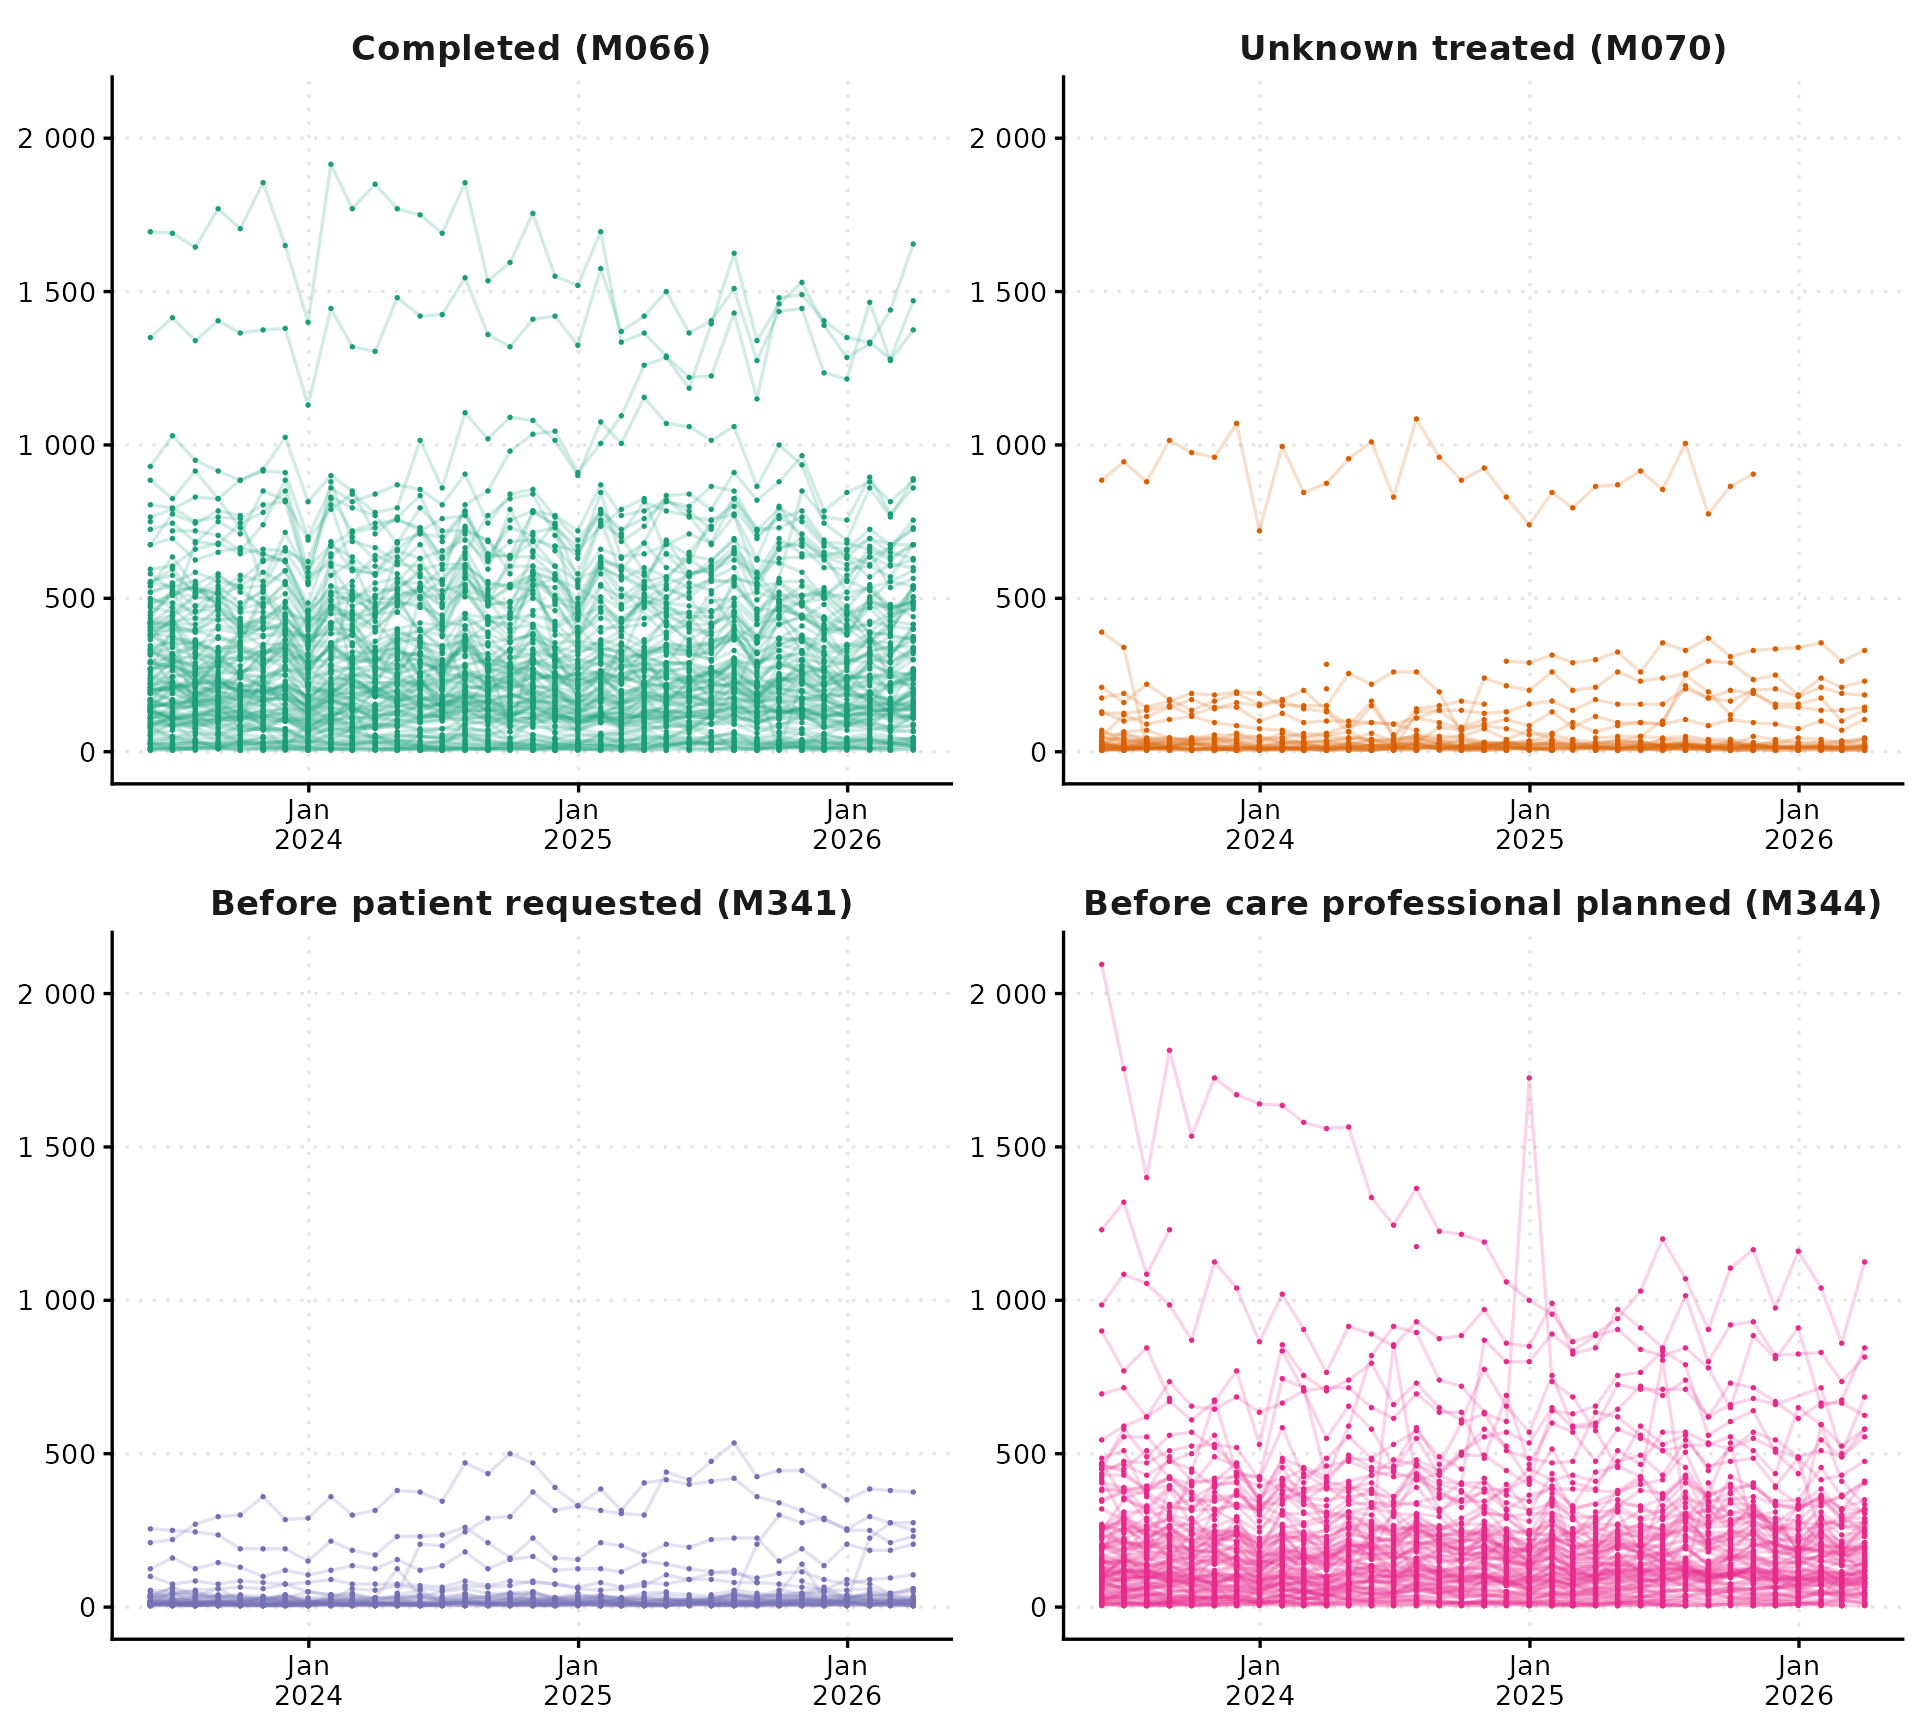
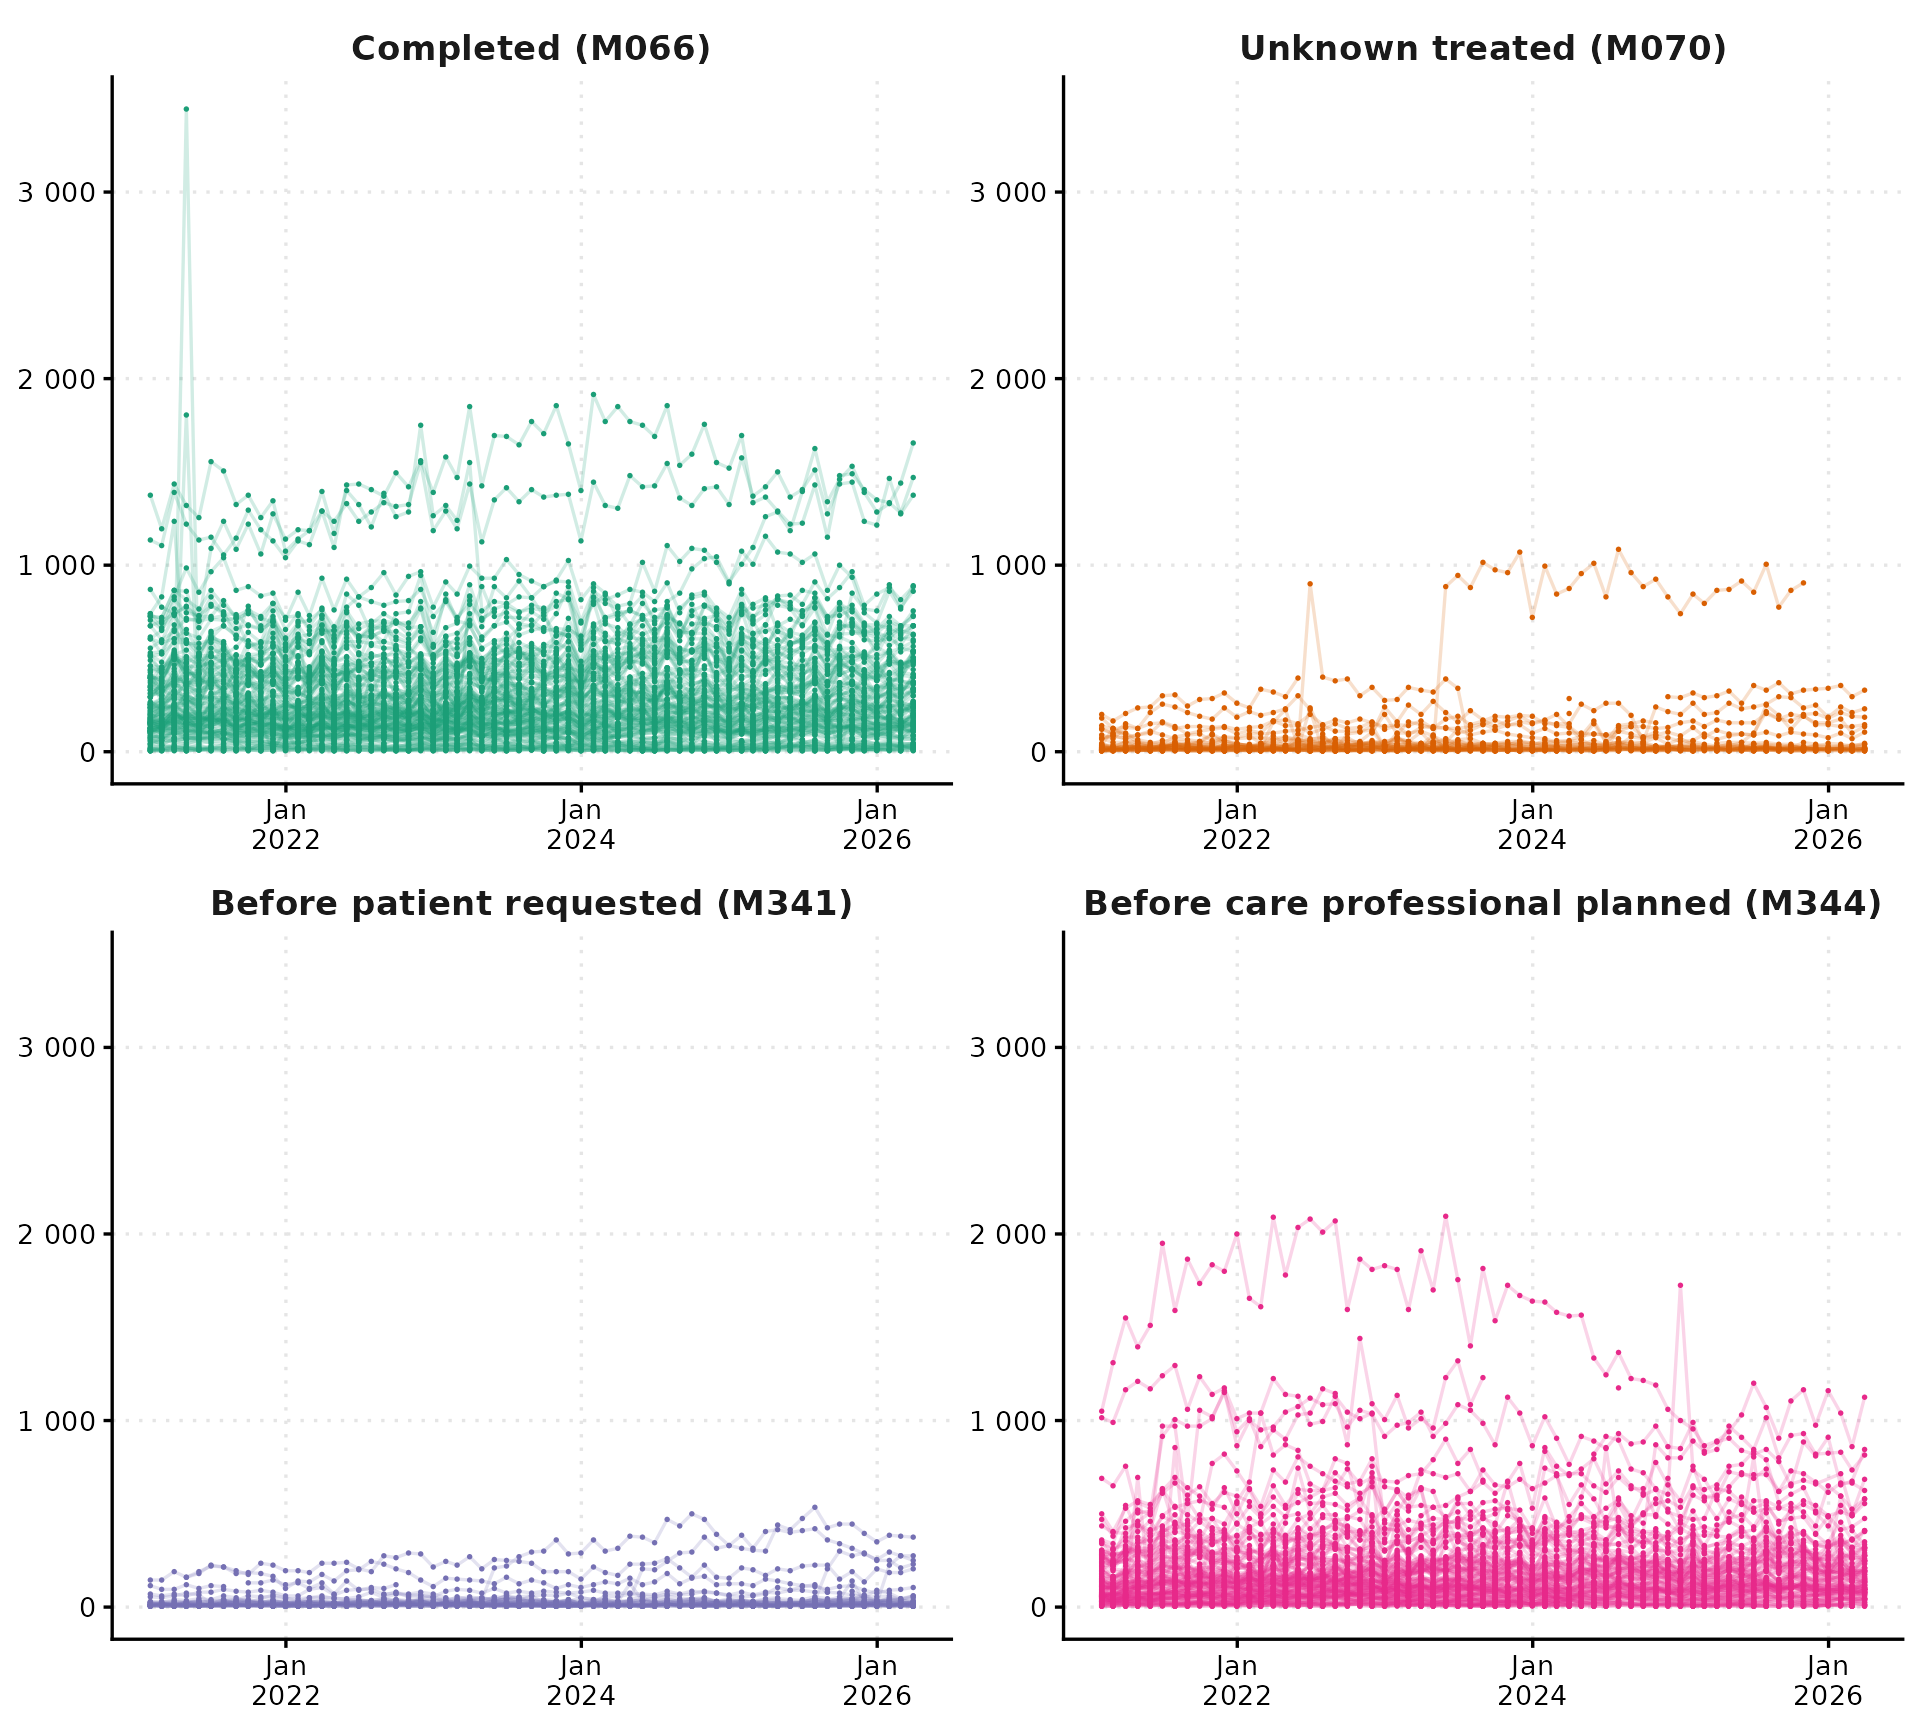
Deploying to gh-pages from @ bennettoxford/nhstt@2e8d4afcc20483566e873e78c872896292044fd9 🚀

diff --git a/reference/extract_source_schemas.html b/reference/extract_source_schemas.html
@@ -1,0 +1,133 @@
+<!DOCTYPE html>
+<!-- Generated by pkgdown: do not edit by hand --><html lang="en"><head><meta http-equiv="Content-Type" content="text/html; charset=UTF-8"><meta charset="utf-8"><meta http-equiv="X-UA-Compatible" content="IE=edge"><meta name="viewport" content="width=device-width, initial-scale=1, shrink-to-fit=no"><title>Extract schemas from direct source files — extract_source_schemas • nhstt</title><script src="../deps/jquery-3.6.0/jquery-3.6.0.min.js"></script><meta name="viewport" content="width=device-width, initial-scale=1, shrink-to-fit=no"><link href="../deps/bootstrap-5.3.8/bootstrap.min.css" rel="stylesheet"><script src="../deps/bootstrap-5.3.8/bootstrap.bundle.min.js"></script><link href="../deps/font-awesome-6.5.2/css/all.min.css" rel="stylesheet"><link href="../deps/font-awesome-6.5.2/css/v4-shims.min.css" rel="stylesheet"><script src="../deps/headroom-0.11.0/headroom.min.js"></script><script src="../deps/headroom-0.11.0/jQuery.headroom.min.js"></script><script src="../deps/bootstrap-toc-1.0.1/bootstrap-toc.min.js"></script><script src="../deps/clipboard.js-2.0.11/clipboard.min.js"></script><script src="../deps/search-1.0.0/autocomplete.jquery.min.js"></script><script src="../deps/search-1.0.0/fuse.min.js"></script><script src="../deps/search-1.0.0/mark.min.js"></script><!-- pkgdown --><script src="../pkgdown.js"></script><link href="../extra.css" rel="stylesheet"><meta property="og:title" content="Extract schemas from direct source files — extract_source_schemas"><meta name="description" content="Extracts column names from a dataset's raw source files across specified
+periods. Companion to extract_archive_schemas() for datasets whose
+sources are standalone files (e.g. the monthly CSVs) rather than archives.
+Returns a data frame useful for tracking schema changes over time and
+spotting column name variations across periods."><meta property="og:description" content="Extracts column names from a dataset's raw source files across specified
+periods. Companion to extract_archive_schemas() for datasets whose
+sources are standalone files (e.g. the monthly CSVs) rather than archives.
+Returns a data frame useful for tracking schema changes over time and
+spotting column name variations across periods."><!-- Privacy-friendly analytics by Plausible --><script async src="https://plausible.io/js/pa-eGtUj6yMT9xZ_NpjGZ0PD.js"></script><script>
+  window.plausible=window.plausible||function(){(plausible.q=plausible.q||[]).push(arguments)},plausible.init=plausible.init||function(i){plausible.o=i||{}};
+  plausible.init()
+</script></head><body>
+    <a href="#main" class="visually-hidden-focusable">Skip to contents</a>
+
+
+    <nav class="navbar navbar-expand-lg fixed-top bg-light" data-bs-theme="default" aria-label="Site navigation"><div class="container">
+
+    <a class="navbar-brand me-2" href="../index.html">nhstt</a>
+
+    <small class="nav-text text-muted me-auto" data-bs-toggle="tooltip" data-bs-placement="bottom" title="Released version">0.6.0</small>
+
+
+    <button class="navbar-toggler" type="button" data-bs-toggle="collapse" data-bs-target="#navbar" aria-controls="navbar" aria-expanded="false" aria-label="Toggle navigation">
+      <span class="navbar-toggler-icon"></span>
+    </button>
+
+    <div id="navbar" class="collapse navbar-collapse ms-3">
+      <ul class="navbar-nav me-auto"><li class="active nav-item"><a class="nav-link" href="../reference/index.html">Function reference</a></li>
+<li class="nav-item dropdown">
+  <button class="nav-link dropdown-toggle" type="button" id="dropdown-how-to-guides" data-bs-toggle="dropdown" aria-expanded="false" aria-haspopup="true">How-to guides</button>
+  <ul class="dropdown-menu" aria-labelledby="dropdown-how-to-guides"><li><h6 class="dropdown-header" data-toc-skip>Annual data</h6></li>
+    <li><a class="dropdown-item" href="../articles/how-to-key-measures-annual.html">Key measures</a></li>
+    <li><a class="dropdown-item" href="../articles/how-to-proms-annual.html">PROMs</a></li>
+    <li><hr class="dropdown-divider"></li>
+    <li><h6 class="dropdown-header" data-toc-skip>Monthly data</h6></li>
+    <li><a class="dropdown-item" href="../articles/how-to-activity-performance-monthly.html">Activity and performance</a></li>
+  </ul></li>
+<li class="nav-item dropdown">
+  <button class="nav-link dropdown-toggle" type="button" id="dropdown-metadata" data-bs-toggle="dropdown" aria-expanded="false" aria-haspopup="true">Metadata</button>
+  <ul class="dropdown-menu" aria-labelledby="dropdown-metadata"><li><h6 class="dropdown-header" data-toc-skip>Annual metadata</h6></li>
+    <li><a class="dropdown-item" href="../articles/metadata-annual.html">Key measures</a></li>
+    <li><hr class="dropdown-divider"></li>
+    <li><h6 class="dropdown-header" data-toc-skip>Monthly metadata</h6></li>
+    <li><a class="dropdown-item" href="../articles/metadata-monthly-core.html">Core measures</a></li>
+    <li><a class="dropdown-item" href="../articles/metadata-monthly-ea.html">Employment Advisor (EA) measures</a></li>
+    <li><a class="dropdown-item" href="../articles/metadata-monthly-ltc.html">Long-term Condition (LTC) measures</a></li>
+    <li><hr class="dropdown-divider"></li>
+    <li><h6 class="dropdown-header" data-toc-skip>Organisation metadata</h6></li>
+    <li><a class="dropdown-item" href="../articles/metadata-ods.html">NHS Talking Therapies providers</a></li>
+  </ul></li>
+      </ul><ul class="navbar-nav"><li class="nav-item"><form class="form-inline" role="search">
+ <input class="form-control" type="search" name="search-input" id="search-input" autocomplete="off" aria-label="Search site" placeholder="Search for" data-search-index="../search.json"></form></li>
+<li class="nav-item"><a class="external-link nav-link" href="https://github.com/bennettoxford/nhstt/" aria-label="GitHub"><span class="fa fab fa-github fa-lg"></span></a></li>
+      </ul></div>
+
+
+  </div>
+</nav><div class="container template-reference-topic">
+<div class="row">
+  <main id="main" class="col-md-9"><div class="page-header">
+
+      <h1>Extract schemas from direct source files</h1>
+      <small class="dont-index">Source: <a href="https://github.com/bennettoxford/nhstt/blob/main/R/dev-utils.R" class="external-link"><code>R/dev-utils.R</code></a></small>
+      <div class="d-none name"><code>extract_source_schemas.Rd</code></div>
+    </div>
+
+    <div class="ref-description section level2">
+    <p>Extracts column names from a dataset's raw source files across specified
+periods. Companion to <code><a href="extract_archive_schemas.html">extract_archive_schemas()</a></code> for datasets whose
+sources are standalone files (e.g. the monthly CSVs) rather than archives.
+Returns a data frame useful for tracking schema changes over time and
+spotting column name variations across periods.</p>
+    </div>
+
+    <div class="section level2">
+    <h2 id="ref-usage">Usage<a class="anchor" aria-label="anchor" href="#ref-usage"></a></h2>
+    <div class="sourceCode"><pre class="sourceCode r"><code><span><span class="fu">extract_source_schemas</span><span class="op">(</span><span class="va">dataset</span>, periods <span class="op">=</span> <span class="cn">NULL</span><span class="op">)</span></span></code></pre></div>
+    </div>
+
+    <div class="section level2">
+    <h2 id="arguments">Arguments<a class="anchor" aria-label="anchor" href="#arguments"></a></h2>
+
+
+<dl><dt id="arg-dataset">dataset<a class="anchor" aria-label="anchor" href="#arg-dataset"></a></dt>
+<dd><p>Character, dataset name (e.g., "activity_performance_monthly")</p></dd>
+
+
+<dt id="arg-periods">periods<a class="anchor" aria-label="anchor" href="#arg-periods"></a></dt>
+<dd><p>Character vector, periods to extract schemas for (e.g., c("2025-09", "2025-08")).
+If NULL (default), extracts schemas for all available periods</p></dd>
+
+</dl></div>
+    <div class="section level2">
+    <h2 id="value">Value<a class="anchor" aria-label="anchor" href="#value"></a></h2>
+    <p>Data frame with columns:</p><dl><dt>period</dt>
+<dd><p>Character, reporting period (e.g., "2025-09")</p></dd>
+
+<dt>dataset</dt>
+<dd><p>Character, dataset name</p></dd>
+
+<dt>column</dt>
+<dd><p>Character, column name from the raw data</p></dd>
+
+
+</dl><p>Sorted by period (descending) and column name.</p>
+    </div>
+    <div class="section level2">
+    <h2 id="details">Details<a class="anchor" aria-label="anchor" href="#details"></a></h2>
+    <p>Sources are read via <code><a href="read_raw.html">read_raw()</a></code>, so all configured formats are
+supported and the raw cache is used when available.</p>
+    </div>
+
+  </main><aside class="col-md-3"><nav id="toc" aria-label="Table of contents"><h2>On this page</h2>
+    </nav></aside></div>
+
+
+    <footer><div class="pkgdown-footer-left">
+  <p>Developed by Milan Wiedemann, Lola Ojedele, Viveck Kingsley, Wellcome Trust.</p>
+</div>
+
+<div class="pkgdown-footer-right">
+  <p>Site built with <a href="https://pkgdown.r-lib.org/" class="external-link">pkgdown</a> 2.2.0.</p>
+</div>
+
+    </footer></div>
+
+
+
+
+
+  </body></html>
+

diff --git a/articles/how-to-activity-performance-monthly.html b/articles/how-to-activity-performance-monthly.html
@@ -129,8 +129,8 @@ on for a course of treatment. This post focuses on the last category,
 which covers patients who received two or more sessions, and captures
 the recorded reason their treatment ended.</p>
 <p>The monthly dataset includes counts for each end code, available from
-May 2023 to March 2026. The table below shows the five end codes in this
-category, with total recorded events and the number of services
+January 2021 to March 2026. The table below shows the five end codes in
+this category, with total recorded events and the number of services
 contributing data. The four most commonly recorded end codes are
 presented in the figures below. All <a href="https://bennettoxford.github.io/nhstt/articles/metadata-monthly-core.html">descriptions
 of monthly measures</a> implemented in the <em>nhstt</em> R package can
@@ -585,7 +585,7 @@ be explored online.</p>
 }
 </style>
 <table class="table gt_table" data-quarto-disable-processing="false" data-quarto-bootstrap="false">
-<caption>End codes for referrals seen and taken on for a course of treatment in the monthly NHS TT dataset (May 2023 to March 2026), with total recorded events and number of services contributing data.</caption>
+<caption>End codes for referrals seen and taken on for a course of treatment in the monthly NHS TT dataset (January 2021 to March 2026), with total recorded events and number of services contributing data.</caption>
   <thead><tr class="gt_col_headings">
 <th class="gt_col_heading gt_columns_bottom_border gt_left" rowspan="1" colspan="1" scope="col" id="measure_id">ID</th>
       <th class="gt_col_heading gt_columns_bottom_border gt_left" rowspan="1" colspan="1" scope="col" id="description">Description</th>
@@ -596,32 +596,32 @@ be explored online.</p>
 <tr>
 <td headers="measure_id" class="gt_row gt_left" style="text-align: left; vertical-align: top; font-weight: bold;">M066</td>
 <td headers="description" class="gt_row gt_left" style="text-align: left; vertical-align: top;">Count of referrals with an end date in the reporting period - Improving Access to Psychological Therapies care spell end code is 'Mutually agreed completion of treatment’</td>
-<td headers="total_events" class="gt_row gt_right">1,292,385</td>
-<td headers="n_services" class="gt_row gt_right">160</td>
+<td headers="total_events" class="gt_row gt_right">2,375,625</td>
+<td headers="n_services" class="gt_row gt_right">175</td>
 </tr>
 <tr>
 <td headers="measure_id" class="gt_row gt_left" style="text-align: left; vertical-align: top; font-weight: bold;">M344</td>
 <td headers="description" class="gt_row gt_left" style="text-align: left; vertical-align: top;">Count of referrals that ended in the reporting period with an end code of ‘Termination of treatment earlier than Care Professional planned’</td>
-<td headers="total_events" class="gt_row gt_right">744,270</td>
-<td headers="n_services" class="gt_row gt_right">149</td>
+<td headers="total_events" class="gt_row gt_right">1,414,705</td>
+<td headers="n_services" class="gt_row gt_right">164</td>
 </tr>
 <tr>
 <td headers="measure_id" class="gt_row gt_left" style="text-align: left; vertical-align: top; font-weight: bold;">M070</td>
 <td headers="description" class="gt_row gt_left" style="text-align: left; vertical-align: top;">Count of referrals that ended in the reporting period with an end code of ‘Not Known (Seen and taken on for a course of treatment)’</td>
-<td headers="total_events" class="gt_row gt_right">74,100</td>
-<td headers="n_services" class="gt_row gt_right">61</td>
+<td headers="total_events" class="gt_row gt_right">121,495</td>
+<td headers="n_services" class="gt_row gt_right">77</td>
 </tr>
 <tr>
 <td headers="measure_id" class="gt_row gt_left" style="text-align: left; vertical-align: top; font-weight: bold;">M341</td>
 <td headers="description" class="gt_row gt_left" style="text-align: left; vertical-align: top;">Count of referrals that ended in the reporting period with an end code of ‘Termination of treatment earlier than patient requested’</td>
-<td headers="total_events" class="gt_row gt_right">58,940</td>
-<td headers="n_services" class="gt_row gt_right">72</td>
+<td headers="total_events" class="gt_row gt_right">89,715</td>
+<td headers="n_services" class="gt_row gt_right">84</td>
 </tr>
 <tr>
 <td headers="measure_id" class="gt_row gt_left" style="text-align: left; vertical-align: top; font-weight: bold;">M069</td>
 <td headers="description" class="gt_row gt_left" style="text-align: left; vertical-align: top;">Count of referrals that ended in the reporting period with an end code of ‘Deceased (Seen and taken on for a course of treatment)’</td>
-<td headers="total_events" class="gt_row gt_right">50</td>
-<td headers="n_services" class="gt_row gt_right">7</td>
+<td headers="total_events" class="gt_row gt_right">365</td>
+<td headers="n_services" class="gt_row gt_right">13</td>
 </tr>
 </tbody>
 </table>
@@ -630,7 +630,7 @@ be explored online.</p>
 <div class="section level2">
 <h2 id="monthly-trends-and-variation-in-treatment-end-codes">Monthly trends and variation in treatment end codes<a class="anchor" aria-label="anchor" href="#monthly-trends-and-variation-in-treatment-end-codes"></a>
 </h2>
-<p>Across 35 reporting periods, these monthly counts make it possible to
+<p>Across 63 reporting periods, these monthly counts make it possible to
 look beyond annual totals and examine trends and variation in treatment
 end codes over time. We first show service-level trends across all
 services, then use decile bands to place two example services in

diff --git a/reference/available_nhstt_reports.html b/reference/available_nhstt_reports.html
@@ -90,7 +90,7 @@ their time period coverage and frequency</p>
 <span class="r-out co"><span class="r-pr">#&gt;</span> <span style="color: #BCBCBC;"> 1</span> key_measures… annual    Key … get_key_mea… 2017-18      2024-25             8</span>
 <span class="r-out co"><span class="r-pr">#&gt;</span> <span style="color: #BCBCBC;"> 2</span> proms_annual  annual    Pati… get_proms_a… 2019-20      2024-25             6</span>
 <span class="r-out co"><span class="r-pr">#&gt;</span> <span style="color: #BCBCBC;"> 3</span> therapy_posi… annual    Ther… get_therapy… 2019-20      2024-25             6</span>
-<span class="r-out co"><span class="r-pr">#&gt;</span> <span style="color: #BCBCBC;"> 4</span> activity_per… monthly   Acti… get_activit… 2023-05      2026-03            35</span>
+<span class="r-out co"><span class="r-pr">#&gt;</span> <span style="color: #BCBCBC;"> 4</span> activity_per… monthly   Acti… get_activit… 2021-01      2026-03            63</span>
 <span class="r-out co"><span class="r-pr">#&gt;</span> <span style="color: #BCBCBC;"> 5</span> metadata_mea… annual    Annu… get_metadat… 2024-25      2024-25             1</span>
 <span class="r-out co"><span class="r-pr">#&gt;</span> <span style="color: #BCBCBC;"> 6</span> metadata_mea… annual    Annu… get_metadat… 2024-25      2024-25             1</span>
 <span class="r-out co"><span class="r-pr">#&gt;</span> <span style="color: #BCBCBC;"> 7</span> metadata_var… annual    Annu… get_metadat… 2024-25      2024-25             1</span>

diff --git a/reference/extract_source_schemas.md b/reference/extract_source_schemas.md
@@ -1,0 +1,51 @@
+# Extract schemas from direct source files
+
+Extracts column names from a dataset's raw source files across specified
+periods. Companion to
+[`extract_archive_schemas()`](https://bennettoxford.github.io/nhstt/reference/extract_archive_schemas.md)
+for datasets whose sources are standalone files (e.g. the monthly CSVs)
+rather than archives. Returns a data frame useful for tracking schema
+changes over time and spotting column name variations across periods.
+
+## Usage
+
+``` r
+extract_source_schemas(dataset, periods = NULL)
+```
+
+## Arguments
+
+- dataset:
+
+  Character, dataset name (e.g., "activity_performance_monthly")
+
+- periods:
+
+  Character vector, periods to extract schemas for (e.g., c("2025-09",
+  "2025-08")). If NULL (default), extracts schemas for all available
+  periods
+
+## Value
+
+Data frame with columns:
+
+- period:
+
+  Character, reporting period (e.g., "2025-09")
+
+- dataset:
+
+  Character, dataset name
+
+- column:
+
+  Character, column name from the raw data
+
+Sorted by period (descending) and column name.
+
+## Details
+
+Sources are read via
+[`read_raw()`](https://bennettoxford.github.io/nhstt/reference/read_raw.md),
+so all configured formats are supported and the raw cache is used when
+available.

diff --git a/articles/how-to-activity-performance-monthly.md b/articles/how-to-activity-performance-monthly.md
@@ -43,8 +43,8 @@ which covers patients who received two or more sessions, and captures
 the recorded reason their treatment ended.
 
 The monthly dataset includes counts for each end code, available from
-May 2023 to March 2026. The table below shows the five end codes in this
-category, with total recorded events and the number of services
+January 2021 to March 2026. The table below shows the five end codes in
+this category, with total recorded events and the number of services
 contributing data. The four most commonly recorded end codes are
 presented in the figures below. All [descriptions of monthly
 measures](https://bennettoxford.github.io/nhstt/articles/metadata-monthly-core.html)
@@ -52,20 +52,20 @@ implemented in the *nhstt* R package can be explored online.
 
 | ID | Description | Total events | NHS TT services |
 |:---|:---|----|----|
-| M066 | Count of referrals with an end date in the reporting period - Improving Access to Psychological Therapies care spell end code is 'Mutually agreed completion of treatment’ | 1,292,385 | 160 |
-| M344 | Count of referrals that ended in the reporting period with an end code of ‘Termination of treatment earlier than Care Professional planned’ | 744,270 | 149 |
-| M070 | Count of referrals that ended in the reporting period with an end code of ‘Not Known (Seen and taken on for a course of treatment)’ | 74,100 | 61 |
-| M341 | Count of referrals that ended in the reporting period with an end code of ‘Termination of treatment earlier than patient requested’ | 58,940 | 72 |
-| M069 | Count of referrals that ended in the reporting period with an end code of ‘Deceased (Seen and taken on for a course of treatment)’ | 50 | 7 |
+| M066 | Count of referrals with an end date in the reporting period - Improving Access to Psychological Therapies care spell end code is 'Mutually agreed completion of treatment’ | 2,375,625 | 175 |
+| M344 | Count of referrals that ended in the reporting period with an end code of ‘Termination of treatment earlier than Care Professional planned’ | 1,414,705 | 164 |
+| M070 | Count of referrals that ended in the reporting period with an end code of ‘Not Known (Seen and taken on for a course of treatment)’ | 121,495 | 77 |
+| M341 | Count of referrals that ended in the reporting period with an end code of ‘Termination of treatment earlier than patient requested’ | 89,715 | 84 |
+| M069 | Count of referrals that ended in the reporting period with an end code of ‘Deceased (Seen and taken on for a course of treatment)’ | 365 | 13 |
 
 End codes for referrals seen and taken on for a course of treatment in
-the monthly NHS TT dataset (May 2023 to March 2026), with total recorded
-events and number of services contributing data. {.table .gt_table
-quarto-disable-processing="false" quarto-bootstrap="false"}
+the monthly NHS TT dataset (January 2021 to March 2026), with total
+recorded events and number of services contributing data. {.table
+.gt_table quarto-disable-processing="false" quarto-bootstrap="false"}
 
 ## Monthly trends and variation in treatment end codes
 
-Across 35 reporting periods, these monthly counts make it possible to
+Across 63 reporting periods, these monthly counts make it possible to
 look beyond annual totals and examine trends and variation in treatment
 end codes over time. We first show service-level trends across all
 services, then use decile bands to place two example services in

diff --git a/reference/available_nhstt_reports.md b/reference/available_nhstt_reports.md
@@ -32,7 +32,7 @@ available_nhstt_reports()
 #>  1 key_measures… annual    Key … get_key_mea… 2017-18      2024-25             8
 #>  2 proms_annual  annual    Pati… get_proms_a… 2019-20      2024-25             6
 #>  3 therapy_posi… annual    Ther… get_therapy… 2019-20      2024-25             6
-#>  4 activity_per… monthly   Acti… get_activit… 2023-05      2026-03            35
+#>  4 activity_per… monthly   Acti… get_activit… 2021-01      2026-03            63
 #>  5 metadata_mea… annual    Annu… get_metadat… 2024-25      2024-25             1
 #>  6 metadata_mea… annual    Annu… get_metadat… 2024-25      2024-25             1
 #>  7 metadata_var… annual    Annu… get_metadat… 2024-25      2024-25             1